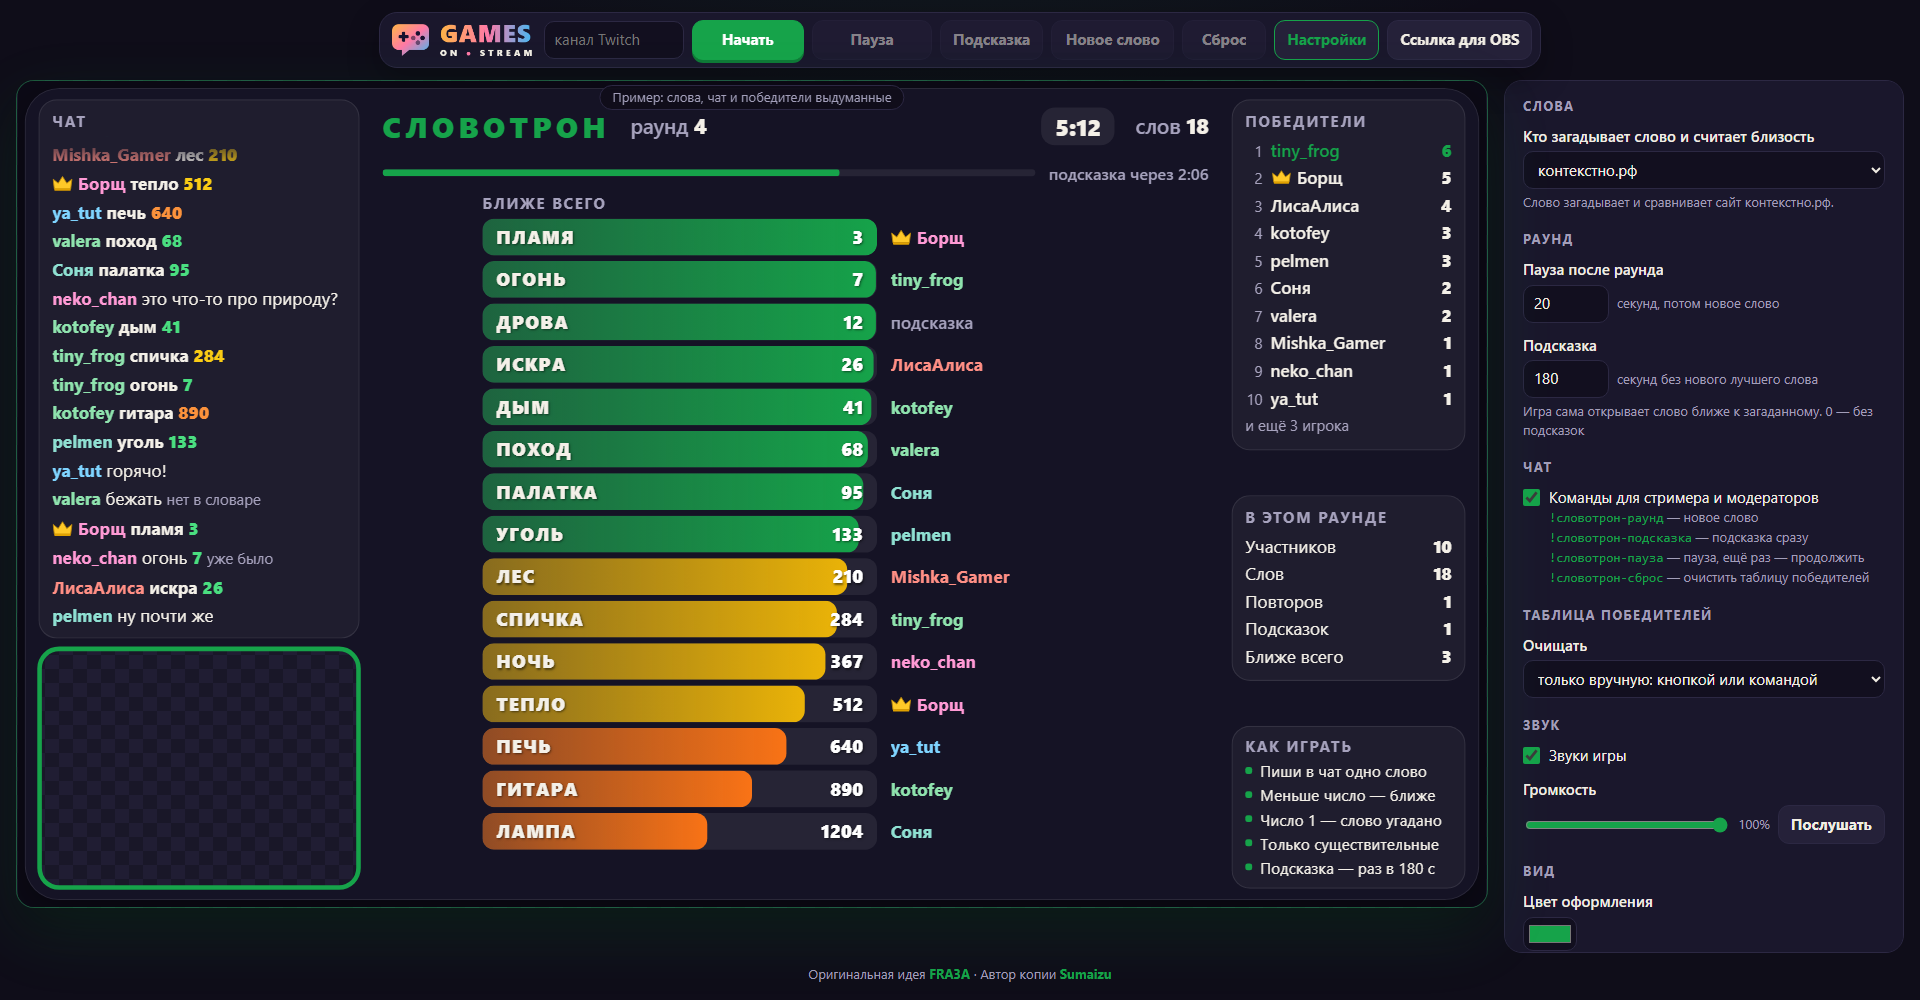
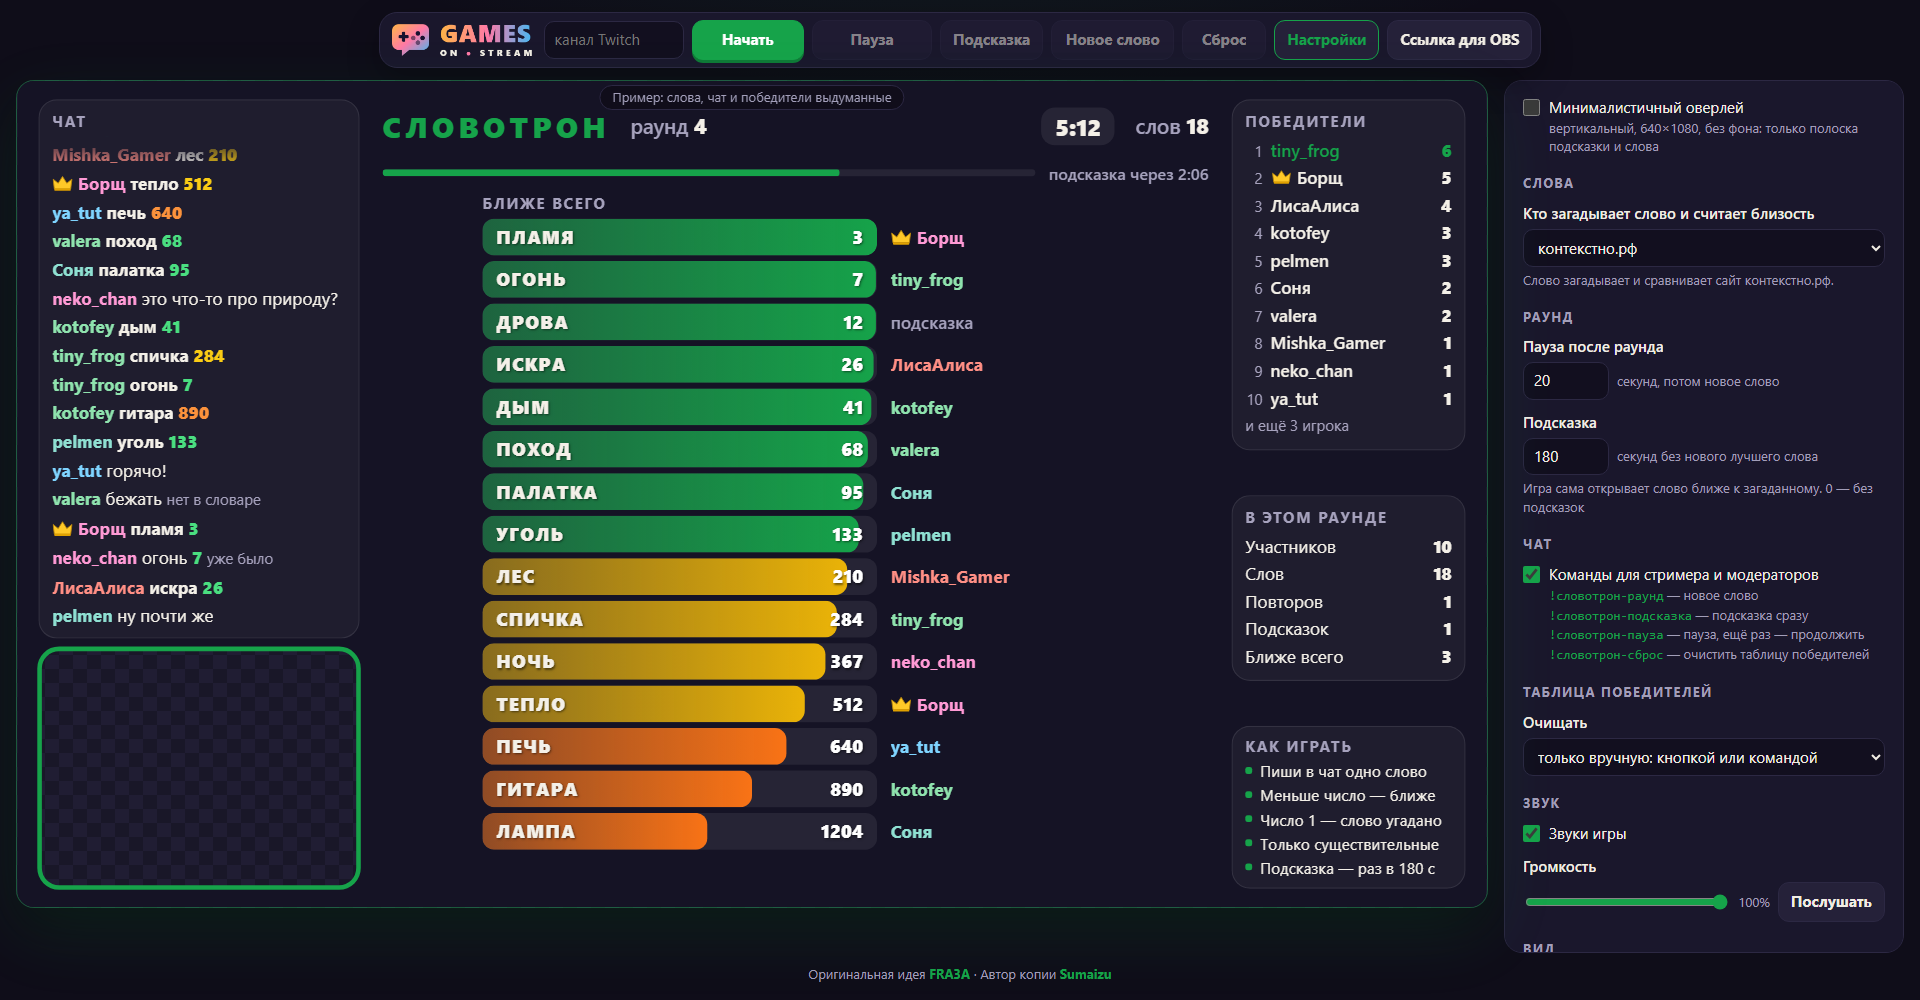
Фон оверлея до краёв, без скруглений

Changed region(s): [[0.7812, 0.093, 0.9688, 0.961]]

diff --git a/site/css/overlay.css b/site/css/overlay.css
@@ -2,7 +2,6 @@
   --accent: #16a34a;
   --accent-ink: #fff;
   --card: #151325;
-  --backdrop: #0c0a16;
   --line: rgba(255, 255, 255, .09);
   --ink: #f4f0e8;
   --muted: #a6a2bd;
@@ -30,22 +29,10 @@ body {
 }
 
 .card {
-  position: absolute; inset: 6px; z-index: 0; padding: 10px 12px;
+  position: absolute; inset: 0; z-index: 0; padding: 16px 18px;
   display: grid; gap: 8px 20px;
   grid-template: "chat main side" minmax(0, 1fr) "cam main side" 210px / 280px minmax(0, 1fr) 204px;
-  border-radius: 30px; overflow: hidden;
-  box-shadow: 0 10px 30px rgba(0, 0, 0, .35);
-}
-.card::after {
-  content: ""; position: absolute; inset: 0; border-radius: inherit; pointer-events: none;
-  box-shadow: inset 0 0 0 1px var(--line);
-}
-#stage::before {
-  content: ""; position: absolute; left: 18px; top: 494px; z-index: -1; width: 280px; height: 210px;
-  border-radius: 18px; box-shadow: 0 0 0 1400px var(--backdrop); clip-path: inset(-494px -982px -16px -18px);
-}
-.nocam #stage::before {
-  inset: 0; width: auto; height: auto; border-radius: 0; box-shadow: none; background: var(--backdrop);
+  overflow: hidden;
 }
 
 .cam { grid-area: cam; position: relative; z-index: -1; border-radius: 18px; box-shadow: 0 0 0 2000px var(--card); }
@@ -56,16 +43,15 @@ body {
 .nocam .cam { display: none; }
 .nocam .chatbox { grid-row: 1 / 3; }
 .vtuber .card { grid-template: "chat main side" minmax(0, 1fr) "cam main side" 360px / 280px minmax(0, 1fr) 204px; }
-.vtuber #stage::before { top: 344px; height: 360px; clip-path: inset(-344px -982px -16px -18px); }
 .nocam .card { background: var(--card); }
 
 .mini { --empty: rgba(21, 19, 37, .62); --muted: #cfcbe2; }
 .mini #stage { width: 426.667px; }
-.mini #stage::before, .mini .card::after, .mini .cam, .mini .chatbox, .mini .side, .mini .round, .mini .status,
+.mini .cam, .mini .chatbox, .mini .side, .mini .round, .mini .status,
 .mini .clock, .mini .count, .mini .timeline .label, .mini .column h3, .mini .who { display: none; }
 .mini .card {
   inset: 0; padding: 12px 12px; grid-template: "main" minmax(0, 1fr) / minmax(0, 1fr);
-  border-radius: 0; background: none; box-shadow: none;
+  background: none;
 }
 .mini .head { height: 40px; gap: 10px; }
 .mini .head .logo { display: block; height: 32px; }
